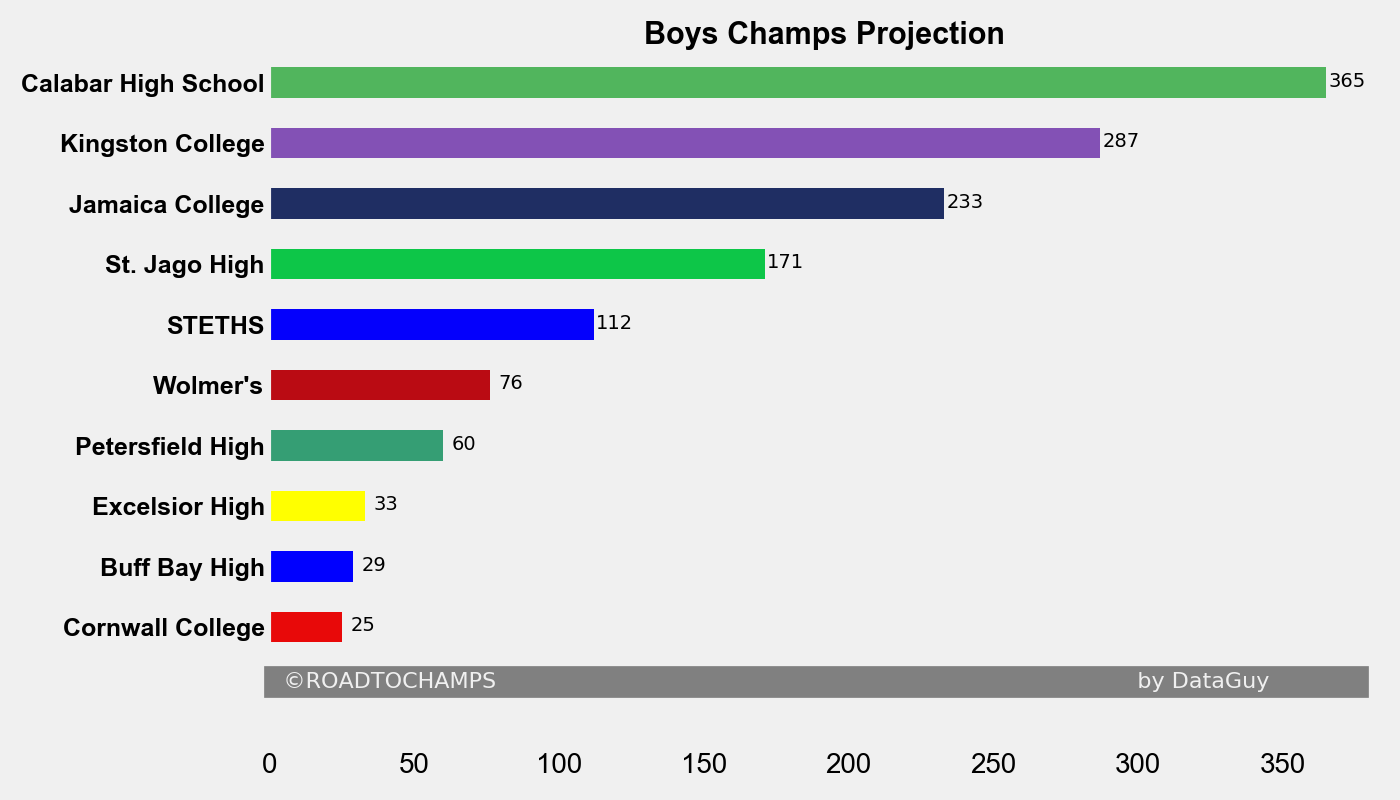
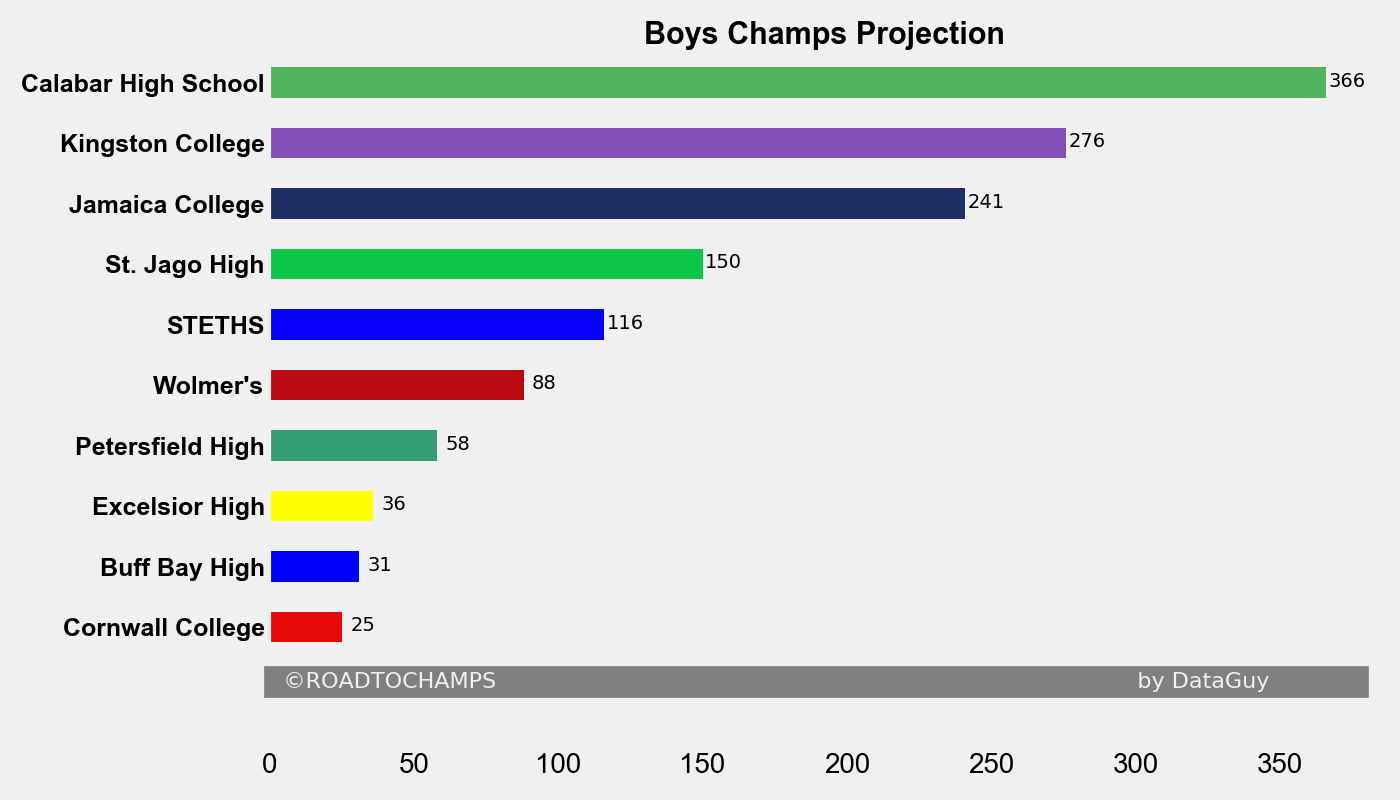
Update index and points images

diff --git a/index.html b/index.html
@@ -59,22 +59,18 @@
     
       <div class="row">
           <div class="col-md-6">
-              <h5>Current Projection - as of Friday 7PM </h5>
-              <p>As of Friday evening Calabar is sill projected to win Boys Champs with a points total in the mid 300s.
-                 This is due to their all round strength with no major weakness in any area
-              </p>
-              <p>
-                  The projected points have been adjusted downwards because the Calabar Class 3 4x100 team are out of the relay.
+              <h5>Current Projection - as of Saturday 11AM </h5>
+              <p>Going into Saturday's finals Calabar is at 172 points - 40 points ahead of second place Kingston College.
+                  They are projected to add around 200 points to this total and finish in the region of 370 points
               </p>
 
               <img src="img/BoysPoints.png" height="280" width="470" style="padding: 4px"/>
                 <br/>
               <p>
-                 KC has strengthened somewhat and should easily maintain second place. They have been buoyed by strong performances with their sprinters in all three classes.
+                 KC has had a few issues leading into Saturday but should finish between 265 and 290 points
               </p>
               <p>
-                  Jamaica College showed some strength on the track yesterday in both the 800m and 200m - slightly better than expected.
-                  They are projected to score in the mid 200's. They are in striking distance of 2nd position.
+                  Jamaica College has an outside chance of finishing second - mainly depending on the relay finishes.
               </p>
 
               <p>
